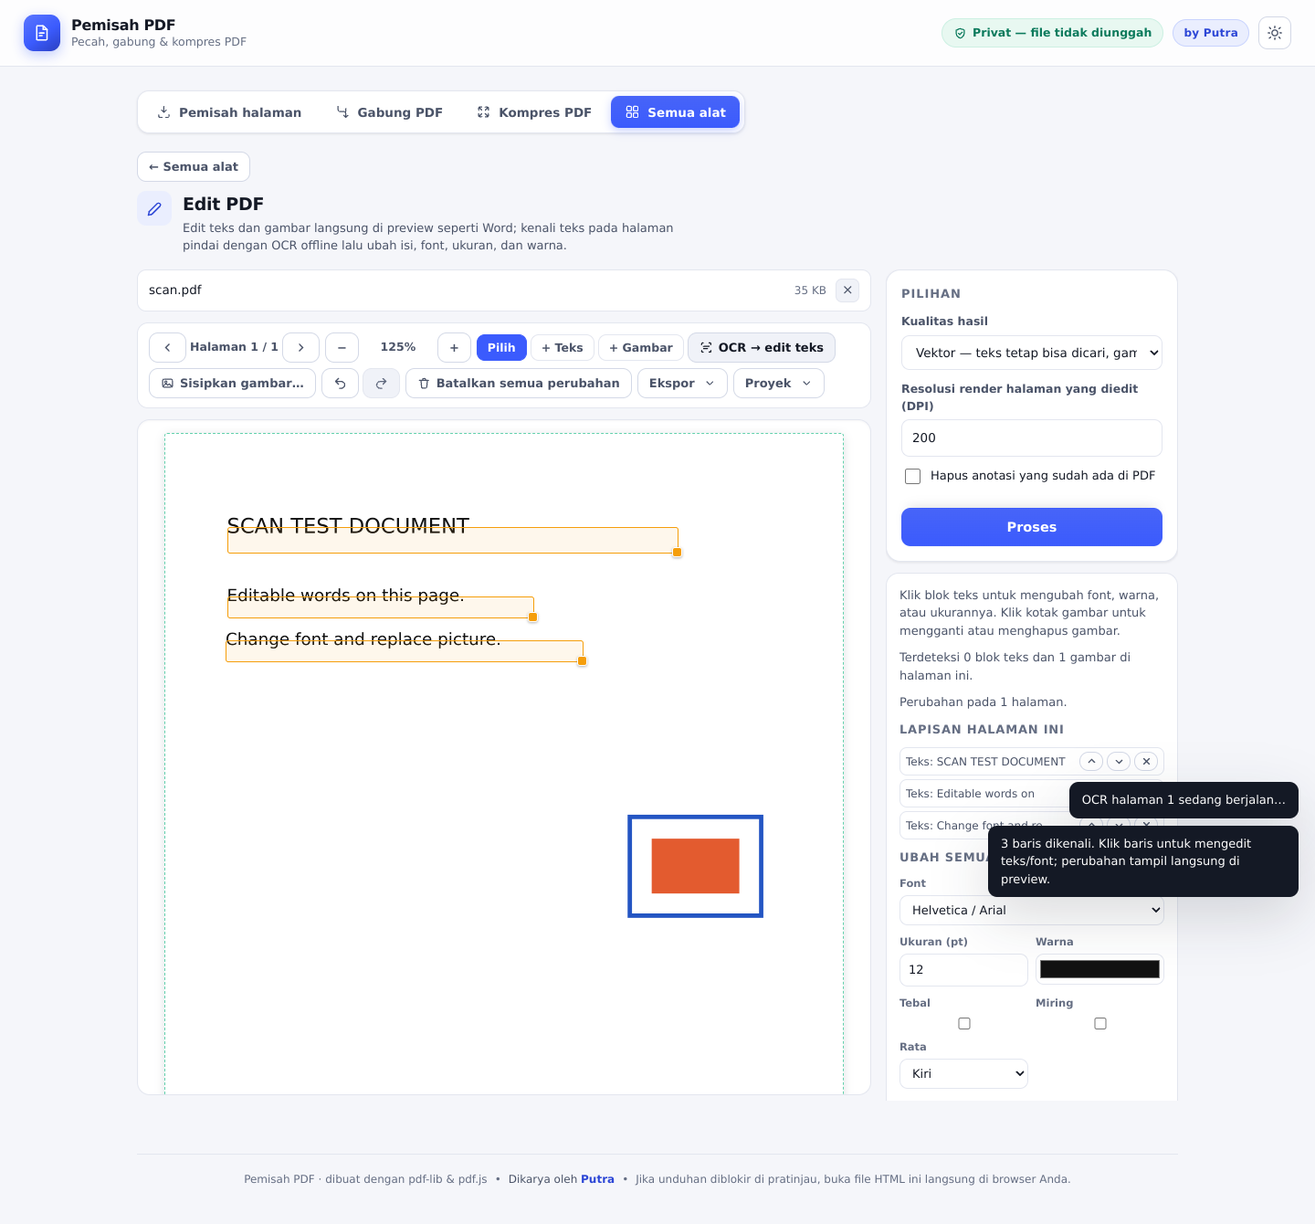
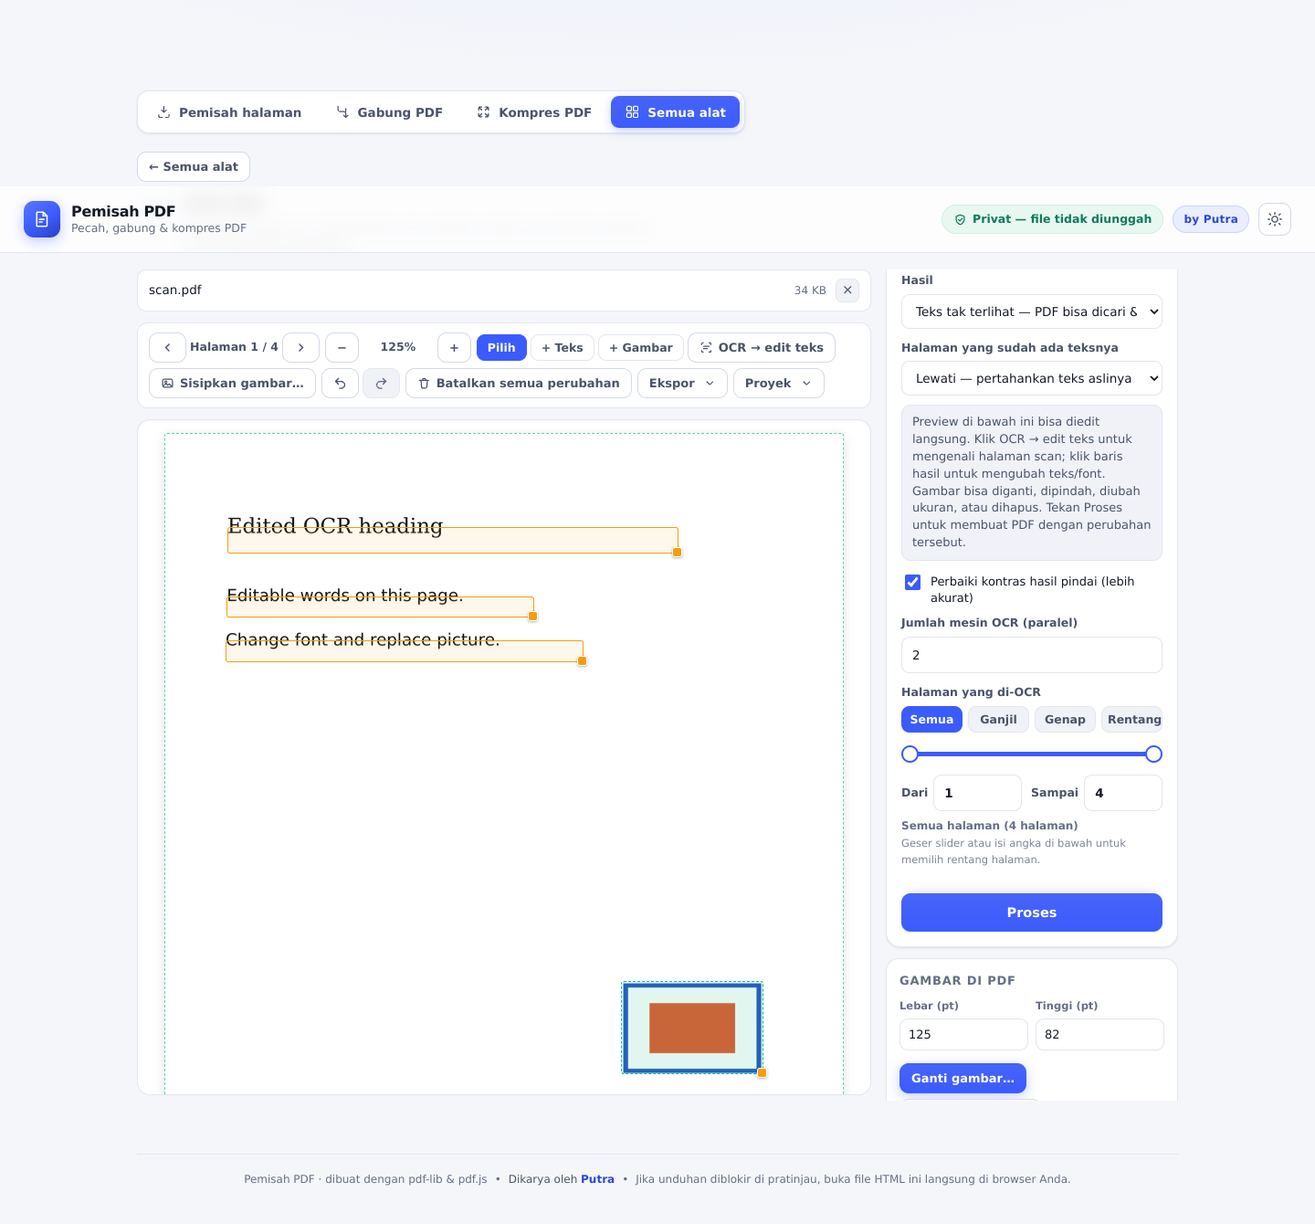
Integrasikan edit langsung ke fitur OCR PDF
Perbaiki alur sesuai kebutuhan: OCR PDF kini membuka preview editor inline, bukan meminta pengguna pindah ke Edit PDF. Teks OCR menjadi baris editable, font/isi/ukuran/warna dapat diubah langsung; objek gambar dapat diubah ukuran/diganti/digeser dan perubahan diterapkan pada PDF hasil. OCR yang sudah dilakukan di preview tidak diulang pada Proses. Tambahkan pemetaan rotasi adaptif untuk scan legacy dan apply edit vektor dengan mask pada teks lama. Harness OCR raster 4 orientasi: 21/0, termasuk uji final searchable, edit gambar, mode latar putih, dan render final dibanding preview (99.0% piksel Δ32). Regresi: OCR 44/0, editor 29/0, produksi 74/0, payung 129/0.

diff --git a/tool-smart.js b/tool-smart.js
@@ -1667,18 +1667,55 @@ td.tag{font-weight:600;white-space:nowrap;width:90px}
        tamp : ruang tampilan (dipakai pada halaman yang dibangun ulang) */
   async function ocrHalaman(o) {
     const { pdfjs, nomor, worker, dpi, perbaiki, pakaiJpeg, laporkan } = o;
-    const { canvas, viewport } = await renderPage(pdfjs, nomor, dpi / 72);
+    /* Coba orientasi intrinsic lebih dulu. Pada PDF scan legacy
+       konten kadang sudah diputar berlawanan dengan /Rotate; bila
+       confidence rendah, uji orientasi tampilan juga lalu pilih hasil
+       yang lebih dipercaya. Rotasi viewport yang dipilih dipakai
+       kembali untuk memetakan kotak OCR ke koordinat PDF. */
+    const page = await pdfjs.getPage(nomor);
     const scale = dpi / 72;
+    const renderArah = async (rotation) => {
+      const vp = page.getViewport({ scale, rotation });
+      const cv = document.createElement("canvas");
+      cv.width = Math.max(1, Math.ceil(vp.width));
+      cv.height = Math.max(1, Math.ceil(vp.height));
+      const cx = cv.getContext("2d", { alpha: false });
+      cx.fillStyle = "#fff"; cx.fillRect(0, 0, cv.width, cv.height);
+      await page.render({ canvasContext: cx, viewport: vp }).promise;
+      let src = cv;
+      if (perbaiki) { try { src = perbaikiKontras(cv); } catch (_) { src = cv; } }
+      return { canvas: cv, viewport: vp, source: src };
+    };
+    const defaultRotation = ((Number(page.rotate) || 0) % 360 + 360) % 360;
+    let picked = await renderArah(0);
+    let res = null;
+    if (worker) {
+      res = await worker.recognize(picked.source, {}, { text: true, blocks: true });
+      const conf = Number(res && res.data && res.data.confidence) || 0;
+      /* Kandidat kedua hanya untuk kasus ambigu/teks nyaris tak terbaca. */
+      if (defaultRotation && conf < 85) {
+        const alternate = await renderArah(defaultRotation);
+        const altRes = await worker.recognize(alternate.source, {}, { text: true, blocks: true });
+        const altConf = Number(altRes && altRes.data && altRes.data.confidence) || 0;
+        if (altConf > conf) {
+          picked.canvas.width = picked.canvas.height = 0;
+          if (picked.source !== picked.canvas) { picked.source.width = picked.source.height = 0; }
+          picked = alternate;
+          res = altRes;
+        } else {
+          alternate.canvas.width = alternate.canvas.height = 0;
+          if (alternate.source !== alternate.canvas) { alternate.source.width = alternate.source.height = 0; }
+        }
+      }
+    }
+    const canvas = picked.canvas;
+    const viewport = picked.viewport;
+    const sumber = picked.source;
     const tinggiTampil = viewport.height / scale;
     const lebarTampil = viewport.width / scale;
-    let sumber = canvas;
-    if (perbaiki) {
-      try { sumber = perbaikiKontras(canvas); } catch (_) { sumber = canvas; }
-    }
 
     let kata = [];
     if (worker) {
-      const res = await worker.recognize(sumber, {}, { text: true, blocks: true });
       kata = kumpulkanKata(res && res.data);
     } else if ("TextDetector" in window) {
       try {
@@ -1740,10 +1777,11 @@ td.tag{font-weight:600;white-space:nowrap;width:90px}
     id: "ocr",
     cat: "optimize",
     name: "OCR PDF",
-    desc: "Tambahkan lapisan teks ke PDF hasil pindai dengan mesin OCR offline Tesseract (Indonesia/Inggris). Dokumen asli tetap utuh; teks bisa dicari & disalin.",
+    desc: "Kenali teks pindai, lalu edit teks/font dan gambar langsung di preview sebelum menyimpan PDF searchable.",
     icon: "ocr",
     accept: ".pdf,application/pdf",
-    multiple: true,
+    custom: "editor",
+    multiple: false,
     fields: [
       {
         type: "select", id: "lang", label: "Bahasa pengenalan", value: "ind",
@@ -1769,6 +1807,7 @@ td.tag{font-weight:600;white-space:nowrap;width:90px}
           ["force", "OCR juga — teks asli diganti hasil OCR"],
         ],
       },
+      { type: "note", text: "Preview di bawah ini bisa diedit langsung. Klik OCR → edit teks untuk mengenali halaman scan; klik baris hasil untuk mengubah teks/font. Gambar bisa diganti, dipindah, diubah ukuran, atau dihapus. Tekan Proses untuk membuat PDF dengan perubahan tersebut." },
       { type: "check", id: "contrast", label: "Perbaiki kontras hasil pindai (lebih akurat)", value: true },
       { type: "number", id: "workers", label: "Jumlah mesin OCR (paralel)", value: 2, min: 1, max: 4 },
       { type: "pagerange", id: "halaman", label: "Halaman yang di-OCR", value: { mode: "all", dari: 1, sampai: 0 } },
@@ -1815,6 +1854,10 @@ td.tag{font-weight:600;white-space:nowrap;width:90px}
           C.pastikanHalamanTerpilih(spec, jumlah, f.name);
           const terpilih = new Set(C.halamanTerpilih(spec, jumlah));
 
+          /* Baris yang sudah dikenali pada preview tidak perlu OCR ulang
+             saat menekan Proses: selain lebih cepat, isi edit pengguna tetap
+             menjadi satu-satunya sumber teks untuk halaman itu. */
+          const editsPreview = (ctx.opts && ctx.opts.edits) || {};
           /* 1. Petakan halaman: punya teks atau tidak. */
           const rencana = [];
           for (let i = 1; i <= jumlah; i++) {
@@ -1827,7 +1870,9 @@ td.tag{font-weight:600;white-space:nowrap;width:90px}
               adaTeks = n >= 30;
             } catch (_) { /* abaikan */ }
             const diLuar = !terpilih.has(i);
-            rencana.push({ nomor: i, adaTeks, lewati: diLuar || (adaTeks && !paksa) });
+            const previewOcr = (editsPreview[String(i)] || []).some((op) => op && op.ocrGenerated);
+            rencana.push({ nomor: i, adaTeks, previewOcr,
+              lewati: diLuar || previewOcr || (adaTeks && !paksa) });
             ctx.progress(Math.round((i / jumlah) * 5), `Memeriksa halaman ${i}/${jumlah}…`);
             await tick();
           }
@@ -1861,21 +1906,34 @@ td.tag{font-weight:600;white-space:nowrap;width:90px}
 
           /* 3. Tulis hasilnya ke halaman yang sesuai. */
           for (const r of rencana) {
-            if (r.lewati) continue;
+            if (r.lewati) {
+              if (r.previewOcr && mode === "clean") {
+                const target = doc.getPage(r.nomor - 1);
+                const srcPage = await pdfjs.getPage(r.nomor);
+                const vp = srcPage.getViewport({ scale: 1, rotation: 0 });
+                kosongkanHalaman(doc, target);
+                target.setMediaBox(0, 0, vp.width, vp.height);
+                target.setCropBox(0, 0, vp.width, vp.height);
+                target.setRotation(C.degrees(0));
+              }
+              continue;
+            }
             const h = hasil.get(r.nomor);
             if (!h || !h.kata.length) continue;
             const page = doc.getPage(r.nomor - 1);
+            const editHalaman = ((ctx.opts && ctx.opts.edits) || {})[String(r.nomor)] || [];
+            const adaOcrEdit = editHalaman.some((op) => op && op.ocrGenerated);
 
             if (mode === "searchable" && !r.adaTeks) {
               /* Halaman pindai: pertahankan gambar aslinya, tambahkan
                  lapisan teks tak terlihat. Tidak ada duplikasi dan
                  berkas tetap ramping. */
-              for (const kata of h.kata) {
+              if (!adaOcrEdit) for (const kata of h.kata) {
                 await tulisKata(page, kata.teks, kata.abs, { visible: false });
               }
             } else if (mode === "overlay" && !r.adaTeks) {
               /* Hasil pindai: teks OCR tampil di atas gambarnya. */
-              for (const kata of h.kata) {
+              if (!adaOcrEdit) for (const kata of h.kata) {
                 await tulisKata(page, kata.teks, kata.abs, { visible: true });
               }
             } else {
@@ -1902,7 +1960,7 @@ td.tag{font-weight:600;white-space:nowrap;width:90px}
                   });
                 }
               }
-              for (const kata of h.kata) {
+              if (!adaOcrEdit) for (const kata of h.kata) {
                 await tulisKata(page, kata.teks, kata.tamp, { visible: mode !== "searchable" });
               }
             }
@@ -1910,6 +1968,40 @@ td.tag{font-weight:600;white-space:nowrap;width:90px}
             await tick();
           }
 
+          /* Terapkan perubahan yang dibuat langsung pada preview OCR.
+             Lapisan OCR hasil editor menggantikan baris scan asal (maskOriginal)
+             sehingga teks hasil edit juga menjadi teks searchable PDF. */
+          for (const [halamanKey, daftarEdit] of Object.entries(editsPreview)) {
+            const no = Number(halamanKey);
+            const opsEdit = (daftarEdit || []).filter((op) => op &&
+              (op.k === "text" || op.k === "erase" || op.k === "image" || op.moved));
+            if (!Number.isInteger(no) || no < 1 || no > jumlah || !opsEdit.length) continue;
+            const target = doc.getPage(no - 1);
+            let bgCanvas = null, bgCtx = null, bgViewport = null;
+            const perluCrop = opsEdit.some((op) => op.k === "image" && op.copyFrom);
+            if (mode !== "clean" || perluCrop) {
+              const bg = await renderPage(pdfjs, no, 2);
+              bgCanvas = bg.canvas; bgCtx = bg.ctx; bgViewport = bg.viewport;
+            }
+            await C.applyVectorEdits(target, opsEdit, {
+              bgFor: (op) => {
+                if (mode === "clean") return "#ffffff";
+                const rect = op.copyFrom || op.box;
+                if (!rect || !bgCtx || !bgViewport) return "#ffffff";
+                try { return C.sampleBackground(bgCtx, C.pdfRectToCanvas(bgViewport, rect)); }
+                catch (_) { return "#ffffff"; }
+              },
+              cropBytes: async (op) => {
+                if (!op.copyFrom || !bgCanvas || !bgViewport) return null;
+                const r = C.pdfRectToCanvas(bgViewport, op.copyFrom);
+                const w = Math.max(1, Math.round(r.w)), h = Math.max(1, Math.round(r.h));
+                const cv = document.createElement("canvas"); cv.width = w; cv.height = h;
+                cv.getContext("2d").drawImage(bgCanvas, r.x, r.y, r.w, r.h, 0, 0, w, h);
+                return canvasToBytes(cv, "image/png");
+              },
+            });
+            if (bgCanvas) bgCanvas.width = bgCanvas.height = 0;
+          }
           try { await pdfjs.destroy(); } catch (_) { /* abaikan */ }
           const bytes = await saveDoc(doc);
           out.push({

diff --git a/tool-editor.js b/tool-editor.js
@@ -1252,11 +1252,14 @@
           });
         }
         if (!window.Tesseract) throw new Error("Mesin OCR tidak termuat.");
+        const ocrPrefs = (ui() && ui().opts) || {};
+        const langs = String(ocrPrefs.lang || "ind+eng");
+        const dpi = Math.min(400, Math.max(100, Number(ocrPrefs.scale) || 180));
         const base = new URL("vendor/tesseract/", location.href).href;
         let lastCoreError = null;
         for (const core of ["tesseract-core-simd-lstm.wasm.js", "tesseract-core-lstm.wasm.js"]) {
           try {
-            worker = await window.Tesseract.createWorker("ind+eng", 1, {
+            worker = await window.Tesseract.createWorker(langs, 1, {
               workerPath: base + "worker.min.js", corePath: base + core,
               langPath: base + "lang", gzip: true,
               logger: (m) => {
@@ -1270,8 +1273,9 @@
         }
         if (!worker) throw lastCoreError || new Error("Mesin OCR tidak dapat dijalankan.");
         const page = await S.doc.getPage(S.pageNo);
-        const dpi = 180;
-        const viewport = page.getViewport({ scale: dpi / 72 });
+        /* Baca orientasi intrinsik; metadata /Rotate hanya mengubah
+           tampilan, bukan orientasi glyph pada raster scan. */
+        const viewport = page.getViewport({ scale: dpi / 72, rotation: 0 });
         const canvas = document.createElement("canvas");
         canvas.width = Math.ceil(viewport.width);
         canvas.height = Math.ceil(viewport.height);
@@ -1286,8 +1290,9 @@
               const text = (line.text || "").trim();
               const bb = line.bbox;
               if (!text || !bb) continue;
-              const a = page.getViewport({ scale: 1 }).convertToPdfPoint(bb.x0 / (dpi / 72), bb.y1 / (dpi / 72));
-              const b = page.getViewport({ scale: 1 }).convertToPdfPoint(bb.x1 / (dpi / 72), bb.y0 / (dpi / 72));
+              const pdfViewport = page.getViewport({ scale: 1, rotation: 0 });
+              const a = pdfViewport.convertToPdfPoint(bb.x0 / (dpi / 72), bb.y1 / (dpi / 72));
+              const b = pdfViewport.convertToPdfPoint(bb.x1 / (dpi / 72), bb.y0 / (dpi / 72));
               const box = { x: Math.min(a[0], b[0]), y: Math.min(a[1], b[1]),
                 w: Math.max(1, Math.abs(b[0] - a[0])), h: Math.max(1, Math.abs(b[1] - a[1])) };
               found.push({ text, box });
@@ -1298,7 +1303,7 @@
         pushHistory(true);
         for (const item of found) {
           const id = "ocr" + (++S.opSeq);
-          pageOps().push({ id, k: "text", newItem: true, ocrGenerated: true,
+          pageOps().push({ id, k: "text", newItem: true, ocrGenerated: true, maskOriginal: true,
             text: item.text, box: item.box, by: item.box.y + item.box.h * 0.8,
             size: Math.max(6, Math.min(72, item.box.h * 0.78)),
             font: "helvetica", color: "#111111", bold: false, italic: false,

diff --git a/tool-core.js b/tool-core.js
@@ -788,7 +788,7 @@ ${rels.join("\n")}
         /* Teks yang berasal dari blok teks di PDF asli (bukan sisipan
            baru) menggantikan isi kotak yang sama. Kotak lama harus
            ditutup dulu, kalau tidak teks lama dan baru bertumpuk. */
-        if (!op.newItem && !op.moved) {
+        if ((!op.newItem && !op.moved) || op.maskOriginal) {
           const bg = o.bgFor ? o.bgFor(op) : null;
           try {
             page.drawRectangle({

diff --git a/docs/audit-editor-ocr.md b/docs/audit-editor-ocr.md
@@ -1,6 +1,6 @@
 # Audit OCR + edit visual langsung di preview
 
-Tanggal: 2026-11-26 · Branch: `arena/37cc1868-pdf`
+Tanggal: 2026-11-22 · Branch: `arena/37cc1868-pdf`
 
 ## Tujuan
 
@@ -8,14 +8,15 @@ Memungkinkan teks pada PDF hasil pindai dikenali offline, lalu diedit langsung d
 
 ## Implementasi
 
-- Tombol **OCR → edit teks** ditambahkan di toolbar Edit PDF.
-- OCR halaman aktif memakai Tesseract lokal (`ind+eng`) di 180 DPI, satu worker untuk menjaga konsumsi memori; worker dihentikan selalu setelah selesai.
+- **Fitur OCR PDF itu sendiri** sekarang membuka panggung preview editor (bukan memaksa pengguna pindah ke alat Edit PDF). Tombol **OCR → edit teks** pada toolbar panggung mengenali scan yang sedang tampil.
+- OCR halaman aktif memakai Tesseract offline memakai bahasa dan DPI yang dipilih di OCR PDF (default Indonesia, 200 DPI), satu worker untuk menjaga konsumsi memori; worker dihentikan selalu setelah selesai.
 - Core SIMD dicoba lebih dulu dan fallback ke core biasa.
 - Pengakuan dipetakan menjadi lapisan teks per baris. Klik satu baris membuka inspector teks yang sudah ada: isi, font, ukuran, warna, tebal/miring, rata, dan posisi dapat diedit.
-- Perubahan terlihat saat itu juga melalui mekanisme preview editor; operasi masuk undo/redo, tersimpan ke proyek, dan ikut pada ekspor PDF editor.
+- Perubahan terlihat saat itu juga di preview OCR; operasi masuk undo/redo, tersimpan ke proyek, dan diterapkan pada PDF keluaran saat tombol **Proses** ditekan. Teks hasil edit menggantikan teks OCR lama dan tetap dapat dicari/disalin.
 - Pengeditan gambar tetap memakai fitur editor yang ada: klik gambar untuk mengganti, mengubah posisi/ukuran, atau menghapusnya; gambar baru bisa disisipkan.
 - OCR hanya berjalan setelah diminta pengguna; dokumen dan model tetap lokal, tidak membuat request ke layanan jaringan.
 - Jika halaman sudah punya hasil OCR, tombol mencegah duplikasi lapisan (gunakan Undo/hapus lapisan untuk mengulang).
+- Pemetaan rotasi dicoba pada orientasi intrinsik dahulu; jika keyakinan OCR rendah, orientasi `/Rotate` ikut dicoba dan hasil ber-confidence terbaik dipakai. Ini menjaga scan yang kontennya sudah diputar maupun yang hanya metadata-nya diputar.
 
 ## Batasan yang dinyatakan ke pengguna
 
@@ -23,16 +24,18 @@ Teks scan lama ditutup dengan warna latar yang disampling lalu teks edit ditaruh
 
 ## Uji otomatis dan bukti
 
-Harness `tools/mkfixture-editor-ocr.mjs` membuat PDF satu halaman yang isinya hanya gambar (3 baris tulisan + gambar geometris), sehingga menguji skenario scan sungguhan, bukan PDF teks. `tools/audit-editor-ocr.mjs` membuktikan:
+Harness `tools/mkfixture-editor-ocr.mjs` membuat PDF scan raster 4 halaman berotasi 0°, 90°, 180°, dan 270°, masing-masing berisi 3 baris tulisan + gambar terpisah. `tools/audit-editor-ocr.mjs` membuka alat **OCR PDF** dan membuktikan:
 
-1. PDF scan terbuka di editor.
-2. OCR menemukan **3 baris** teks (180 DPI; worker init + OCR sekitar **2,4 detik** pada runner audit ini).
-3. Tiap hasil OCR berupa lapisan teks editable dengan geometri valid.
-4. Klik hasil membuka inspector.
-5. Ubah teks dan font memperbarui state preview langsung.
-6. Undo tersedia.
-7. Preview tetap ter-render dan tidak ada error JavaScript fatal.
+1. File dibuka di fitur OCR dengan preview interaktif bawaan.
+2. OCR menemukan **3 baris** (200 DPI; sekitar **2,3 detik** termasuk worker init pada runner).
+3. Hasil OCR editable; ubah isi + font, lalu PDF akhir benar-benar berisi teks baru dan tidak lagi berisi heading lama.
+4. Gambar kedua dapat diubah ukurannya melalui inspector; PDF akhir memuat objek gambar hasil edit.
+5. Undo tersedia; preview tetap ter-render; tidak ada error JavaScript fatal.
+6. Keempat orientasi berhasil dikenali dan hasil OCR tetap searchable pada PDF keluaran.
+7. Render halaman PDF akhir dibandingkan dengan canvas preview hasil edit: **99,0% piksel** dalam toleransi Δ32.
+8. Mode latar putih mempertahankan teks yang diedit di semua halaman dan menyertakan kembali gambar yang diubah ukurannya.
+9. Halaman yang sudah dikenali di preview tidak di-OCR ulang saat Proses (hemat waktu dan mencegah teks lama dipakai lagi).
 
-Hasil: **9 lulus / 0 gagal**. Bukti visual: `docs/audit-editor-ocr/ocr-preview.png`.
+Hasil terbaru: **21 lulus / 0 gagal**; audit OCR yang lama **44/0** setelah perbaikan rotasi adaptif. Bukti visual: `docs/audit-editor-ocr/ocr-preview.png`.
 
-Regresi terkait: editor lama **29/0**; produksi **74/0** setelah tombol baru dilipat menjadi ikon di layar sempit; audit payung **129/0**.
+Regresi terkait: OCR lama **44/0**; editor **29/0**; produksi **74/0**; audit payung **129/0**.

diff --git a/README.md b/README.md
@@ -132,11 +132,11 @@ diduplikasi** — semuanya memakai tautan ke alur yang sudah ada:
 | **Konversi dari PDF** | PDF to JPG · PDF to WORD · PDF to POWERPOINT · PDF to EXCEL · PDF to PDF/A |
 | **Edit PDF** | Rotate PDF · Add page numbers · Add watermark · Crop PDF · Edit PDF · PDF Forms |
 
-### Edit PDF visual: OCR dan edit langsung di preview
+### OCR: edit teks dan gambar langsung di preview
 
-Di **Edit PDF**, tombol **“OCR → edit teks”** mengenali teks halaman pindai secara offline (Tesseract Indonesia + Inggris). Setiap baris hasil OCR menjadi lapisan teks yang bisa dipilih di preview, lalu teks, font, ukuran, warna, gaya, dan posisi dapat diedit langsung seperti objek Word. Perubahan langsung terlihat pada preview; undo/redo, proyek editor, dan ekspor PDF tetap tersedia. Foto/ilustrasi tetap dipilih, digeser, diubah ukuran, diganti, atau dihapus melalui alat gambar yang sudah ada. OCR memakai 180 DPI dan satu worker untuk membatasi konsumsi memori; worker dihentikan setelah selesai.
+Fitur **OCR PDF** kini punya panggung preview editor sendiri. Setelah memilih PDF scan, tekan **“OCR → edit teks”** pada toolbar preview. Setiap baris hasil OCR menjadi lapisan yang bisa dipilih dan diedit langsung seperti objek Word: ubah isi, font, ukuran, warna, gaya, posisi, dan perataan. Foto/ilustrasi bisa dipilih lalu digeser, diubah ukurannya, diganti, dihapus, atau disisipkan. Tekan **Proses** di panel OCR untuk membuat PDF; teks edit diterapkan ke hasil akhir dan tetap searchable. Perubahan mendukung undo/redo dan simpan/buka proyek.
 
-**Catatan:** OCR mengubah teks menjadi lapisan editable di atas scan (area lama ditutup dengan warna latar yang disampling). Ini bukan rekonstruksi konten foto yang tertutup; pada latar bertekstur, batas penutup mungkin terlihat. Fitur tetap berjalan lokal, tidak mengunggah dokumen. Audit otomatis: `node tools/mkfixture-editor-ocr.mjs` lalu `node tools/audit-editor-ocr.mjs`.
+OCR (Tesseract offline) memakai bahasa dan resolusi pilihan di panel (bawaan Indonesia, 200 DPI), satu worker. Pemilihan orientasi membandingkan orientasi intrinsik dan `/Rotate` saat keyakinan OCR rendah. **Catatan:** teks scan lama ditutup dengan warna latar sekitar lalu diganti lapisan teks; ini bukan content-aware fill, jadi bekas penutup dapat terlihat di latar foto/bertekstur. File tidak diunggah. Audit otomatis: `node tools/mkfixture-editor-ocr.mjs` lalu `node tools/audit-editor-ocr.mjs` (19/0; rotasi 0/90/180/270; PDF akhir cocok 99,0% piksel dengan preview dalam toleransi Δ32).
 | **Keamanan PDF** | Unlock PDF · Protect PDF · Sign PDF · Redact PDF · Compare PDF |
 | **Kecerdasan PDF** | AI Summarizer · Translate PDF · PDF to Markdown |
 

diff --git a/AUDIT.md b/AUDIT.md
@@ -765,21 +765,22 @@ pernah bocor** ke pesan galat · server AI gagal → turun ke mesin bawaan dan
 
 ---
 
-# Audit Edit PDF: OCR → ubah font/teks/gambar langsung di preview — 2026-11-26
+# Audit Edit PDF: OCR → ubah font/teks/gambar langsung di preview — 2026-11-22
 
-Fitur OCR berbasis scan terintegrasi dengan Editor PDF visual (seperti Word).
-OCR offline menghasilkan lapisan teks per baris yang dapat dipilih dan diedit
-langsung pada preview. Font, isi, ukuran, warna, dan posisi memakai inspector
+Fitur OCR PDF sendiri kini membuka editor visual inline (pengguna tidak harus
+pindah ke alat Edit PDF). OCR offline menghasilkan lapisan teks per baris yang
+bisa dipilih dan diedit langsung di preview OCR, lalu diterapkan ke PDF keluaran. Font, isi, ukuran, warna, dan posisi memakai inspector
 editor yang sudah ada. Objek gambar tetap dapat dipilih, diganti, diubah ukuran,
 dipindah, atau dihapus.
 
 - Harness baru: `tools/mkfixture-editor-ocr.mjs` + `tools/audit-editor-ocr.mjs`
-  → **9/0**; OCR 1 halaman, 180 DPI, selesai 2,4 dtk di runner audit; fixture adalah PDF scan yang isinya raster, bukan PDF teks.
-- Tesseract lokal `ind+eng`, 180 DPI, satu worker untuk menekan memori,
+  → **21/0**; fixture 4 halaman raster berotasi 0/90/180/270°, 180 DPI, termasuk pemeriksaan isi PDF keluaran dan edit ukuran gambar.
+- Tesseract lokal, bahasa/DPI mengikuti opsi pengguna (Indonesia/200 DPI default), satu worker untuk menekan memori,
   progress UI, SIMD dengan fallback core standar, worker selalu dihentikan.
 - Undo/redo dan ekspor/proyek menggunakan operasi editor normal.
 - Batasan UX didokumentasikan: scan text ditutup dengan warna sekitar; bukan
   rekonstruksi konten/fill-aware pada latar foto atau bertekstur.
-- `verify-produksi.mjs` → **74/0** (toolbar sempit kembali maksimal 3 baris).
+- OCR pada fixture 1 halaman @200 DPI: sekitar 2,3 detik termasuk init worker; PDF akhir dibandingkan dengan preview: **99,0%** piksel dalam toleransi Δ32.
+- `audit-ocr.mjs` → **44/0** (termasuk scan dengan rotasi legacy); `verify-produksi.mjs` → **74/0**; `audit-semua.mjs` → **129/0**.
 - Rincian dan screenshot: `docs/audit-editor-ocr.md`,
   `docs/audit-editor-ocr/ocr-preview.png`.
